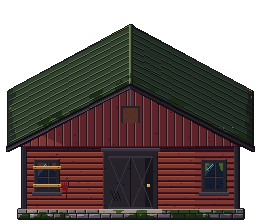
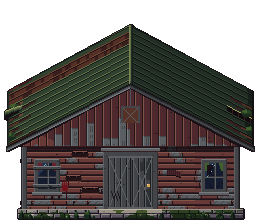
Install the derelict barn (round 5: 6, preferred; the installed one scored 3)
It now reads as the kept barn left to rot: rusted eaves and a rusted-through sheet, a
missing sheet over the rafters, peeled silver-grey boards, missing and sprung siding,
a planked grey door, a broken pane and weeds at the base. Old sprites kept in
spr/backup_v2/bld_derelict.

Claude-Session: https://claude.ai/code/session_01P6pGQCq2oe4GSAnTdGYxNB

diff --git a/hollow-acre/2d/tools/px/PRACTICE_LOG.md b/hollow-acre/2d/tools/px/PRACTICE_LOG.md
@@ -86,3 +86,5 @@ One row per critiqued attempt. The point is to see the number of attempts per ki
 | 2026-11-10 | derelict barn (barn_c) | 2 | new 5 vs installed 3 | the gable and siding still the kept barn's fresh red (recolouring is not neglect); holes flat black slots with no splinters; door mid grey merges with the red in greyscale; whole glass; the lifted sheet a dark ledge with no lit edge; moss in 1-2 px dots | NOT installed. Round 3: paint faded a step and peeled to silver-grey in board-wide runs down from the gable edges and on the low courses; splintered hole ends; silver door and trim; a pane gone; lit sheet edge; moss only in clumps |
 | 2026-11-10 | tool upgrade grades, in-game captures (levels 1-4 + rods) | 2 | set 6/10; every grade SIMILAR: hoe 5 (rust)/7/6/7, axe 7/7/7, pick 6/6/6, can 8/7/6/7, rod 7/7/6/7 | the redder rust read as clay in the hand; iron vs steel and tin vs glass too close at 1x; glass should be near-black with a hard glint | round 3: dark oxide rust, darker cooler steel with a white glint, near-black glass |
 | 2026-11-10 | derelict barn | 3 | new 5 vs installed 3 | the gable peel followed both roof edges, a mirrored sawtooth read as bunting; near-white grey louder than the barn; the roof untouched; moss beads | round 4: boards bleach from the bottom, uneven, longest on the weather side; darker cool silver with grain; rust runs down every other seam; two large olive clumps a side; lit broken edges above the holes; ragged peel ends |
+| 2026-11-10 | derelict barn | 4 | new 5 vs round 3 4 | the roof (half the sprite) still the kept barn's clean tin; holes black slots; the door a grey slab (steel); peel with no paint edge; nothing growing | round 5: rusted eaves, a sheet rusted through, a missing sheet showing rafters, wooden holes, plank seams, a dark lip where paint stops, weeds at the base |
+| 2026-11-10 | derelict barn | 5 | 6 vs round 4 5 (installed scored 3) | outline still the kept barn's; the rusted sheet a uniform sash; gable-base peel a bar chart; the sprung board reads as a vent; weeds only on the plinth | INSTALLED (old in spr/backup_v2/bld_derelict). Next: tear the right-eave hole 2-3 ribs wide and curl its corner 3-4 px past the outline; rust heaviest at the eave, fading up in 2 px streaks |
